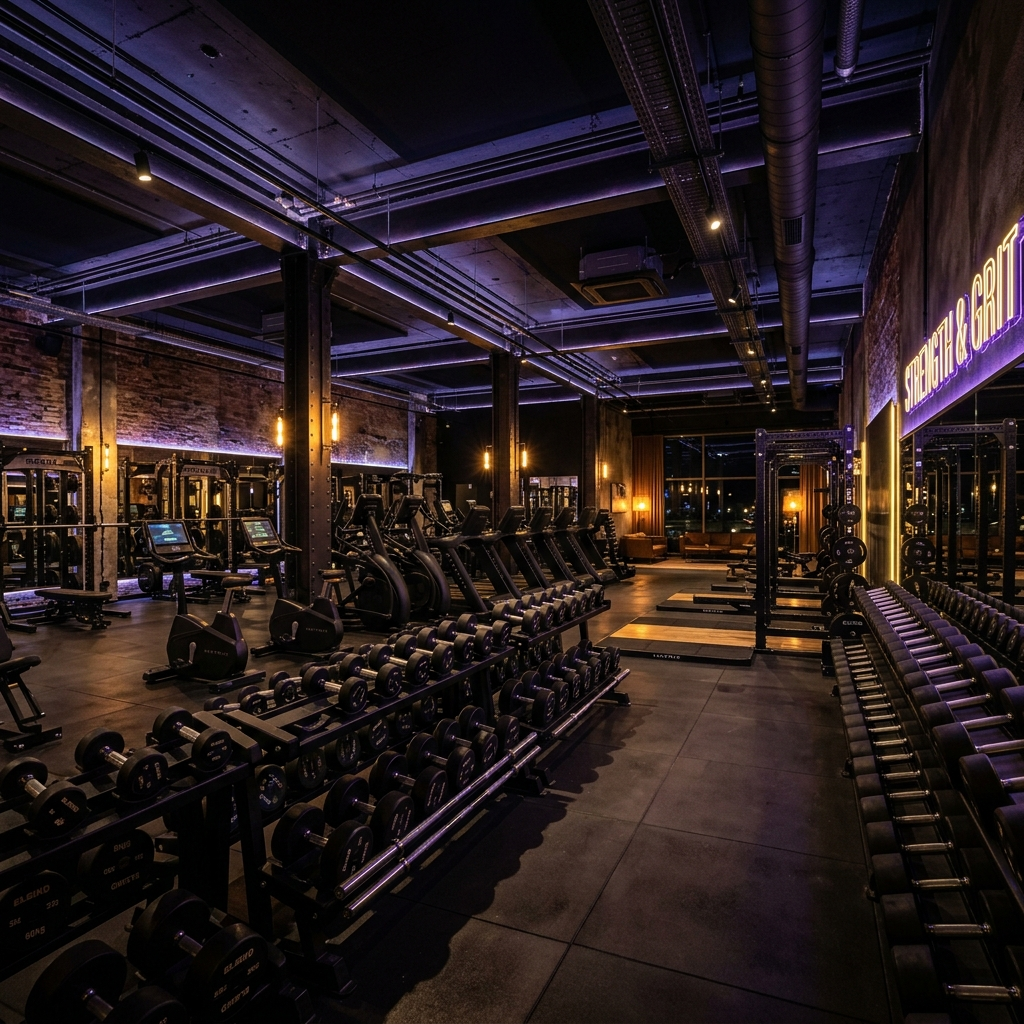
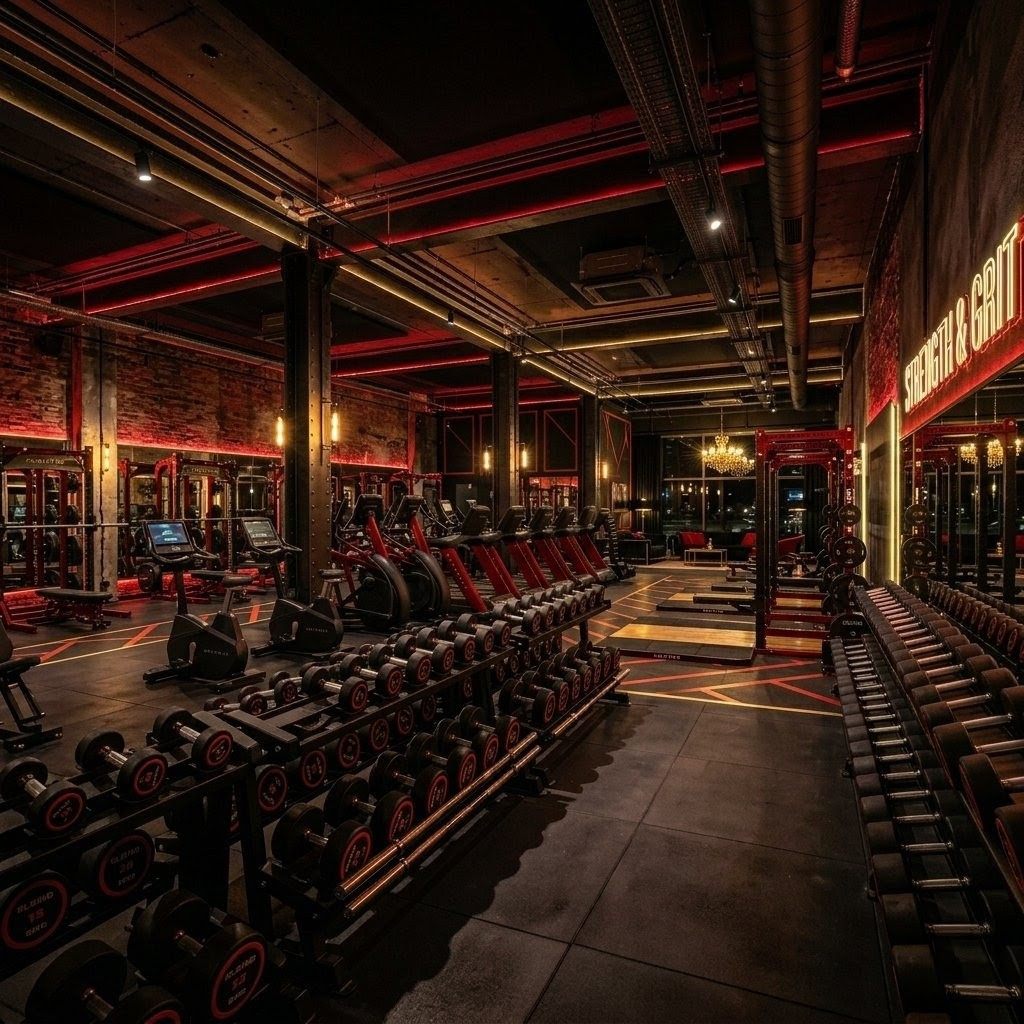
UI: Add real machine photos audio and cleanup unused assets

diff --git a/index.html b/index.html
@@ -1409,7 +1409,6 @@
 
         <div class="equipment-grid">
           <div class="equipment-card">
-            <!-- REEMPLAZA ESTA IMAGEN: img/placeholder_smith.jpg por el nombre real de tu foto -->
             <img
               src="img/smith.png"
               alt="Máquina Smith"
@@ -1425,7 +1424,6 @@
             </p>
           </div>
           <div class="equipment-card">
-            <!-- REEMPLAZA ESTA IMAGEN: img/placeholder_hack.jpg por el nombre real de tu foto -->
             <img
               src="img/hack.png"
               alt="Sentadilla Hack"
@@ -1441,7 +1439,6 @@
             </p>
           </div>
           <div class="equipment-card">
-            <!-- REEMPLAZA ESTA IMAGEN: img/placeholder_doble_polea.jpg por el nombre real de tu foto -->
             <img
               src="img/doble_polea.png"
               alt="Doble Polea"
@@ -1457,7 +1454,6 @@
             </p>
           </div>
           <div class="equipment-card">
-            <!-- REEMPLAZA ESTA IMAGEN: img/placeholder_espalda.jpg por el nombre real de tu foto -->
             <img
               src="img/espalda.png"
               alt="Polea Alta y Baja"